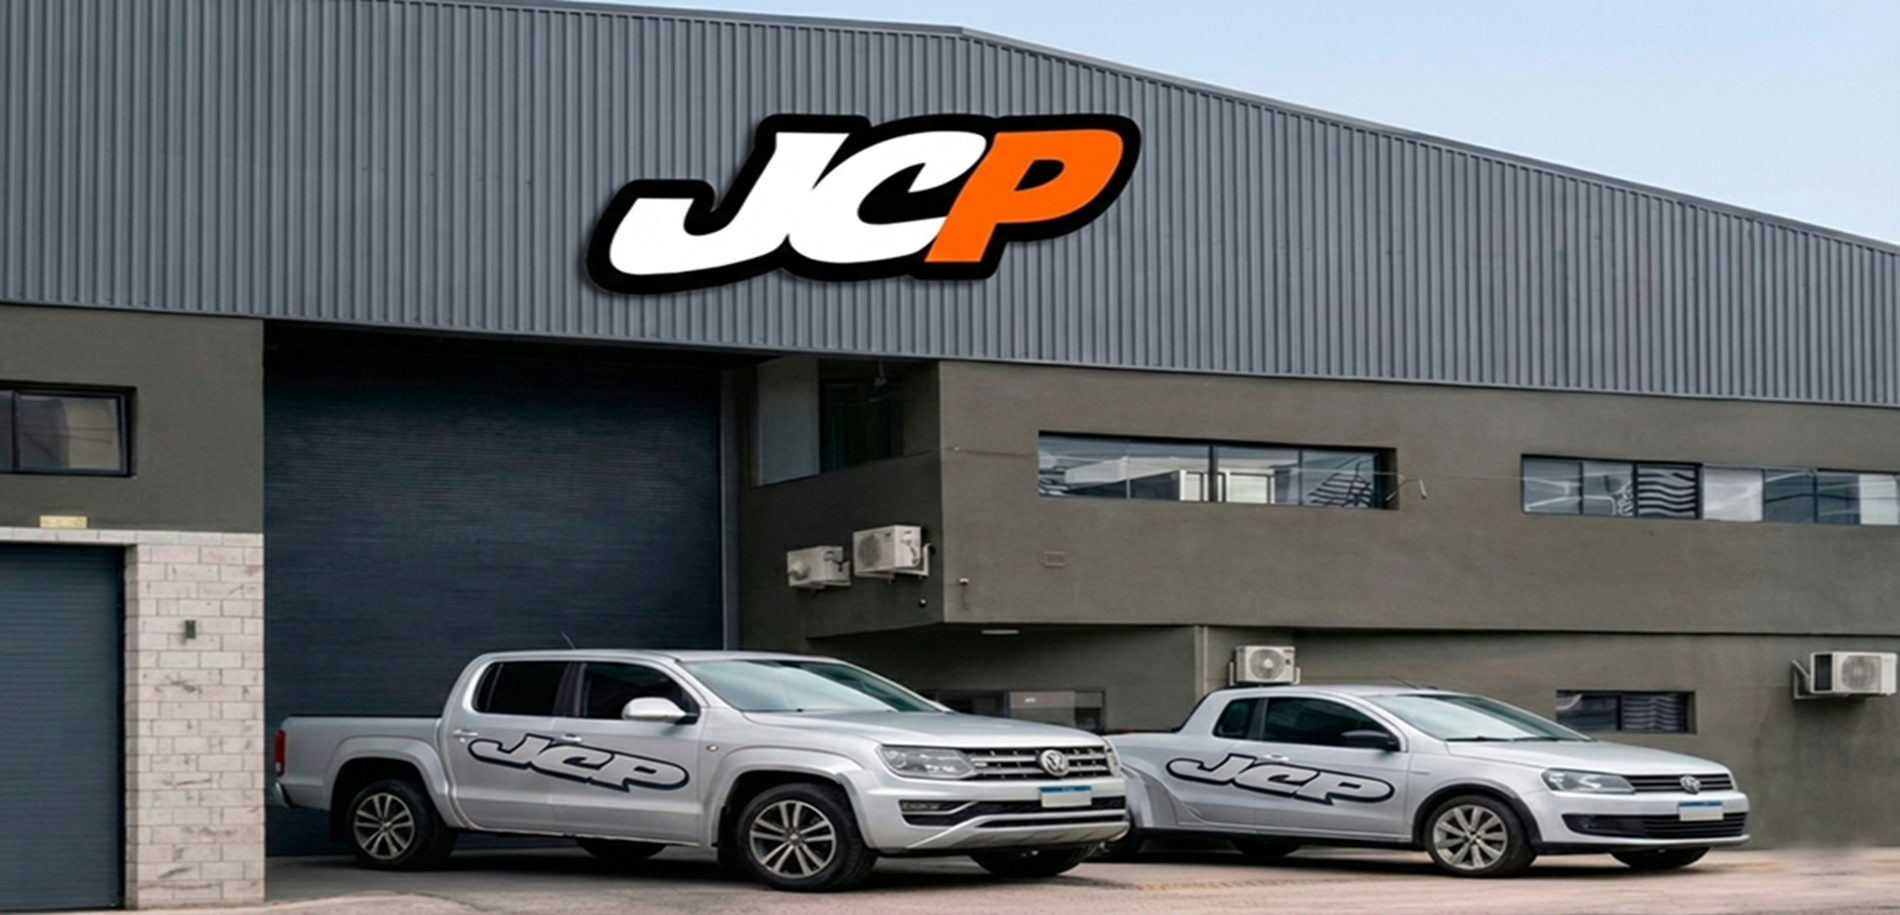
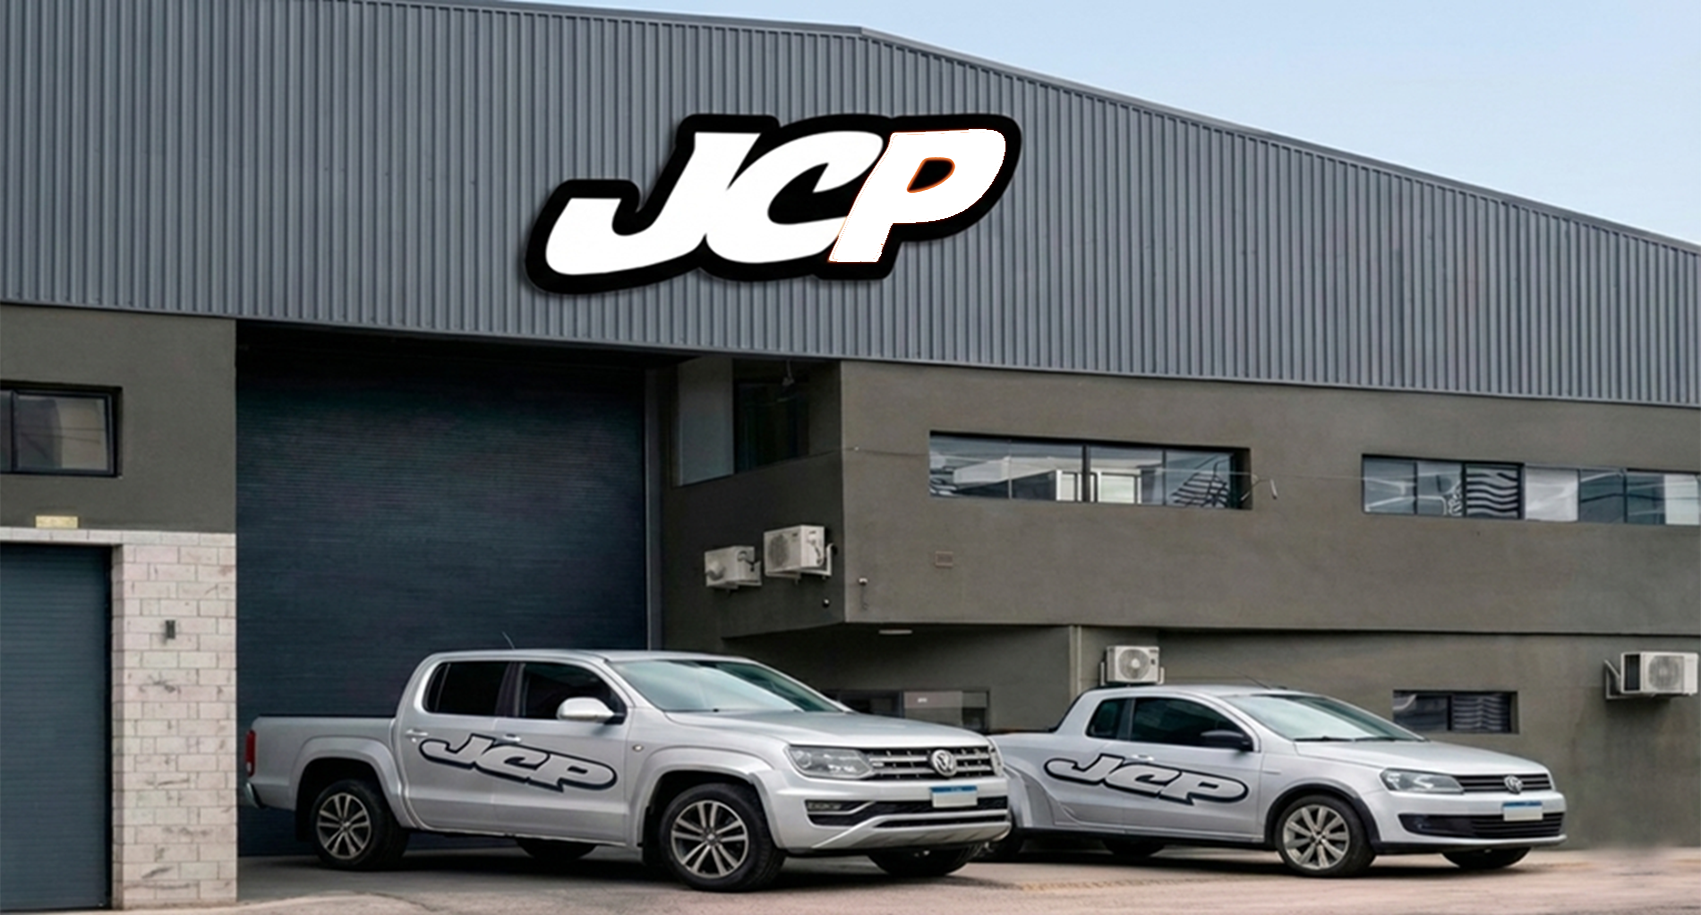
cambios.
ajuste de imagen hero
agregado de calificación para las maquinarias

Changed region(s): [[0.4674, 0.1224, 0.592, 0.306]]

diff --git a/pages/admin/home.js b/pages/admin/home.js
@@ -77,7 +77,8 @@ export default function Admin() {
     images: [],
     imagePreviews: [], // Para mostrar previews locales
 
-    pdfUrl: '' // URL del PDF en Cloudinary
+    pdfUrl: '', // URL del PDF en Cloudinary
+    rating: ''
   });
 
   const [newSubcategory, setNewSubcategory] = useState({
@@ -98,6 +99,20 @@ export default function Admin() {
   // Estados para manejo de imágenes
   const [mainImageIndex, setMainImageIndex] = useState(0);
   const [imageErrors, setImageErrors] = useState({});
+
+  const isRepuestoForm = (form) => {
+    const subcategory = (form.subcategory || '').toLowerCase();
+    const title = (form.title || '').toLowerCase();
+    const description = (form.description || '').toLowerCase();
+
+    return (
+      subcategory.includes('repuesto') ||
+      subcategory.includes('repuestos') ||
+      subcategory.includes('spare') ||
+      title.includes('repuesto') ||
+      description.includes('repuesto')
+    );
+  };
 
   // Redirect to login if not authenticated
   useEffect(() => {
@@ -281,11 +296,19 @@ export default function Admin() {
     }
 
     try {
+      const isRepuesto = isRepuestoForm(productForm);
+      const { rating, ...productFields } = productForm;
+      const ratingValue = rating !== '' ? parseFloat(rating) : null;
+
       // Agregar información de imagen principal al producto
       const productData = {
-        ...productForm,
+        ...productFields,
         mainImageIndex: mainImageIndex
       };
+
+      if (!isRepuesto && Number.isFinite(ratingValue)) {
+        productData.rating = ratingValue;
+      }
 
       console.log('📋 Estado del formulario antes de enviar:', productForm);
       console.log('📤 Enviando producto a la base de datos:', productData);
@@ -304,8 +327,9 @@ export default function Admin() {
           condition: '',
           images: [],
           imagePreviews: [],
-   
-          pdfUrl: ''
+
+          pdfUrl: '',
+          rating: ''
         });
         setMainImageIndex(0);
         setImageErrors({});
@@ -358,7 +382,8 @@ export default function Admin() {
       images: product.images || [],
       imagePreviews: [], // No hay previews para productos existentes
 
-      pdfUrl: product.pdfUrl || ''
+      pdfUrl: product.pdfUrl || '',
+      rating: product.rating ?? ''
     });
     setMainImageIndex(product.mainImageIndex || 0);
     setImageErrors({});
@@ -383,11 +408,21 @@ export default function Admin() {
     }
 
     try {
+      const isRepuesto = isRepuestoForm(productForm);
+      const { rating, ...productFields } = productForm;
+      const ratingValue = rating !== '' ? parseFloat(rating) : null;
+
       // Agregar información de imagen principal al producto
       const productData = {
-        ...productForm,
+        ...productFields,
         mainImageIndex: mainImageIndex
       };
+
+      if (!isRepuesto && Number.isFinite(ratingValue)) {
+        productData.rating = ratingValue;
+      } else if (isRepuesto) {
+        productData.rating = null;
+      }
 
       const result = await updateProduct(
         editingProduct.id,
@@ -407,8 +442,9 @@ export default function Admin() {
           condition: '',
           images: [],
           imagePreviews: [],
-    
-          pdfUrl: ''
+
+          pdfUrl: '',
+          rating: ''
         });
         setMainImageIndex(0);
         setImageErrors({});
@@ -622,6 +658,29 @@ export default function Admin() {
                       placeholder="Ej: $2,500"
                     />
                       </div>
+
+                  {/* Calificación (solo maquinarias) */}
+                  {!isRepuestoForm(productForm) && (
+                    <div>
+                      <label className="block text-white font-medium mb-2">
+                        Calificación
+                      </label>
+                      <input
+                        type="number"
+                        name="rating"
+                        value={productForm.rating}
+                        onChange={handleInputChange}
+                        min="0"
+                        max="5"
+                        step="0.1"
+                        className="w-full px-4 py-3 bg-[#1a1a1a] border border-[#ff6b35]/20 rounded-lg text-white placeholder-[#adb5bd] focus:border-[#ff6b35] focus:outline-none"
+                        placeholder="Ej: 4.5"
+                      />
+                      <p className="text-xs text-[#adb5bd] mt-2">
+                        Solo para maquinarias (0 a 5)
+                      </p>
+                    </div>
+                  )}
 
                   {/* Condición (Nuevo/Usado) */}
                   <div>
@@ -1207,6 +1266,29 @@ export default function Admin() {
                     placeholder="Ej: $2,500"
                   />
                 </div>
+
+                {/* Calificación (solo maquinarias) */}
+                {!isRepuestoForm(productForm) && (
+                  <div>
+                    <label className="block text-white font-medium mb-2">
+                      Calificación
+                    </label>
+                    <input
+                      type="number"
+                      name="rating"
+                      value={productForm.rating}
+                      onChange={handleInputChange}
+                      min="0"
+                      max="5"
+                      step="0.1"
+                      className="w-full px-4 py-3 bg-[#1a1a1a] border border-[#ff6b35]/20 rounded-lg text-white placeholder-[#adb5bd] focus:border-[#ff6b35] focus:outline-none"
+                      placeholder="Ej: 4.5"
+                    />
+                    <p className="text-xs text-[#adb5bd] mt-2">
+                      Solo para maquinarias (0 a 5)
+                    </p>
+                  </div>
+                )}
 
                 {/* Condición (Nuevo/Usado) */}
                 <div>

diff --git a/pages/api/products.js b/pages/api/products.js
@@ -141,7 +141,8 @@ async function handleCreateProduct(req, res) {
       subcategory, 
       images,
       pdfUrl,
-      mainImageIndex
+      mainImageIndex,
+      rating
     } = req.body;
     
     console.log('📥 Datos recibidos en API:', {
@@ -153,7 +154,8 @@ async function handleCreateProduct(req, res) {
       subcategory,
       imagesCount: Array.isArray(images) ? images.length : 0,
       hasPdf: !!pdfUrl,
-      mainImageIndex: mainImageIndex || 0
+      mainImageIndex: mainImageIndex || 0,
+      rating
     });
     
     // Validar que db esté inicializado
@@ -205,6 +207,7 @@ async function handleCreateProduct(req, res) {
       images: Array.isArray(images) ? images : (images ? [images] : []), // Asegurar que sea array
       pdfUrl: pdfUrl || '',
       mainImageIndex: parseInt(mainImageIndex) || 0,
+      ...(Number.isFinite(parseFloat(rating)) ? { rating: parseFloat(rating) } : {}),
       status: 'active',
       createdAt: new Date().toISOString(),
       updatedAt: new Date().toISOString()
@@ -398,6 +401,10 @@ async function handleUpdateProduct(req, res) {
       if (updateData.images !== undefined) updateFields.images = Array.isArray(updateData.images) ? updateData.images : (updateData.images ? [updateData.images] : []);
       if (updateData.pdfUrl !== undefined) updateFields.pdfUrl = updateData.pdfUrl || '';
       if (updateData.mainImageIndex !== undefined) updateFields.mainImageIndex = parseInt(updateData.mainImageIndex) || 0;
+      if (updateData.rating !== undefined) {
+        const parsedRating = parseFloat(updateData.rating);
+        updateFields.rating = Number.isNaN(parsedRating) ? null : parsedRating;
+      }
       if (updateData.status !== undefined) updateFields.status = updateData.status;
       
       // Siempre actualizar updatedAt

diff --git a/components/CompleteCatalog.js b/components/CompleteCatalog.js
@@ -513,7 +513,7 @@ const [productTitle, setProductTitle] = useState("");
 
                     {/* Botones de acción */}
                     <div className="flex space-x-2">
-                      <Button 
+                      {/* <Button 
                         variant="outline" 
                         className={`flex-1 text-sm ${
                           product.catalogFile && 
@@ -547,7 +547,7 @@ const [productTitle, setProductTitle] = useState("");
                          (product.catalogFile.startsWith('/pdfs/') || product.catalogFile.startsWith('http'))
                           ? 'F. Técnica' 
                           : 'Catálogo'}
-                      </Button>
+                      </Button> */}
                                              <Button 
                          className="flex-1 text-sm text-white bg-gray-900 hover:bg-orange-600"
                          size="sm"

diff --git a/components/ModernCatalog.js b/components/ModernCatalog.js
@@ -306,7 +306,7 @@ export function ModernCatalog() {
                 characteristics: product.characteristics,
                 specs: specs, // Agregar specs
                 features: features, // Agregar features
-                rating: 4.5, // Valor por defecto
+                rating: product.rating ?? 4.5, // Valor por defecto
                 isNew: product.condition === 'nuevo'
               };
             });
